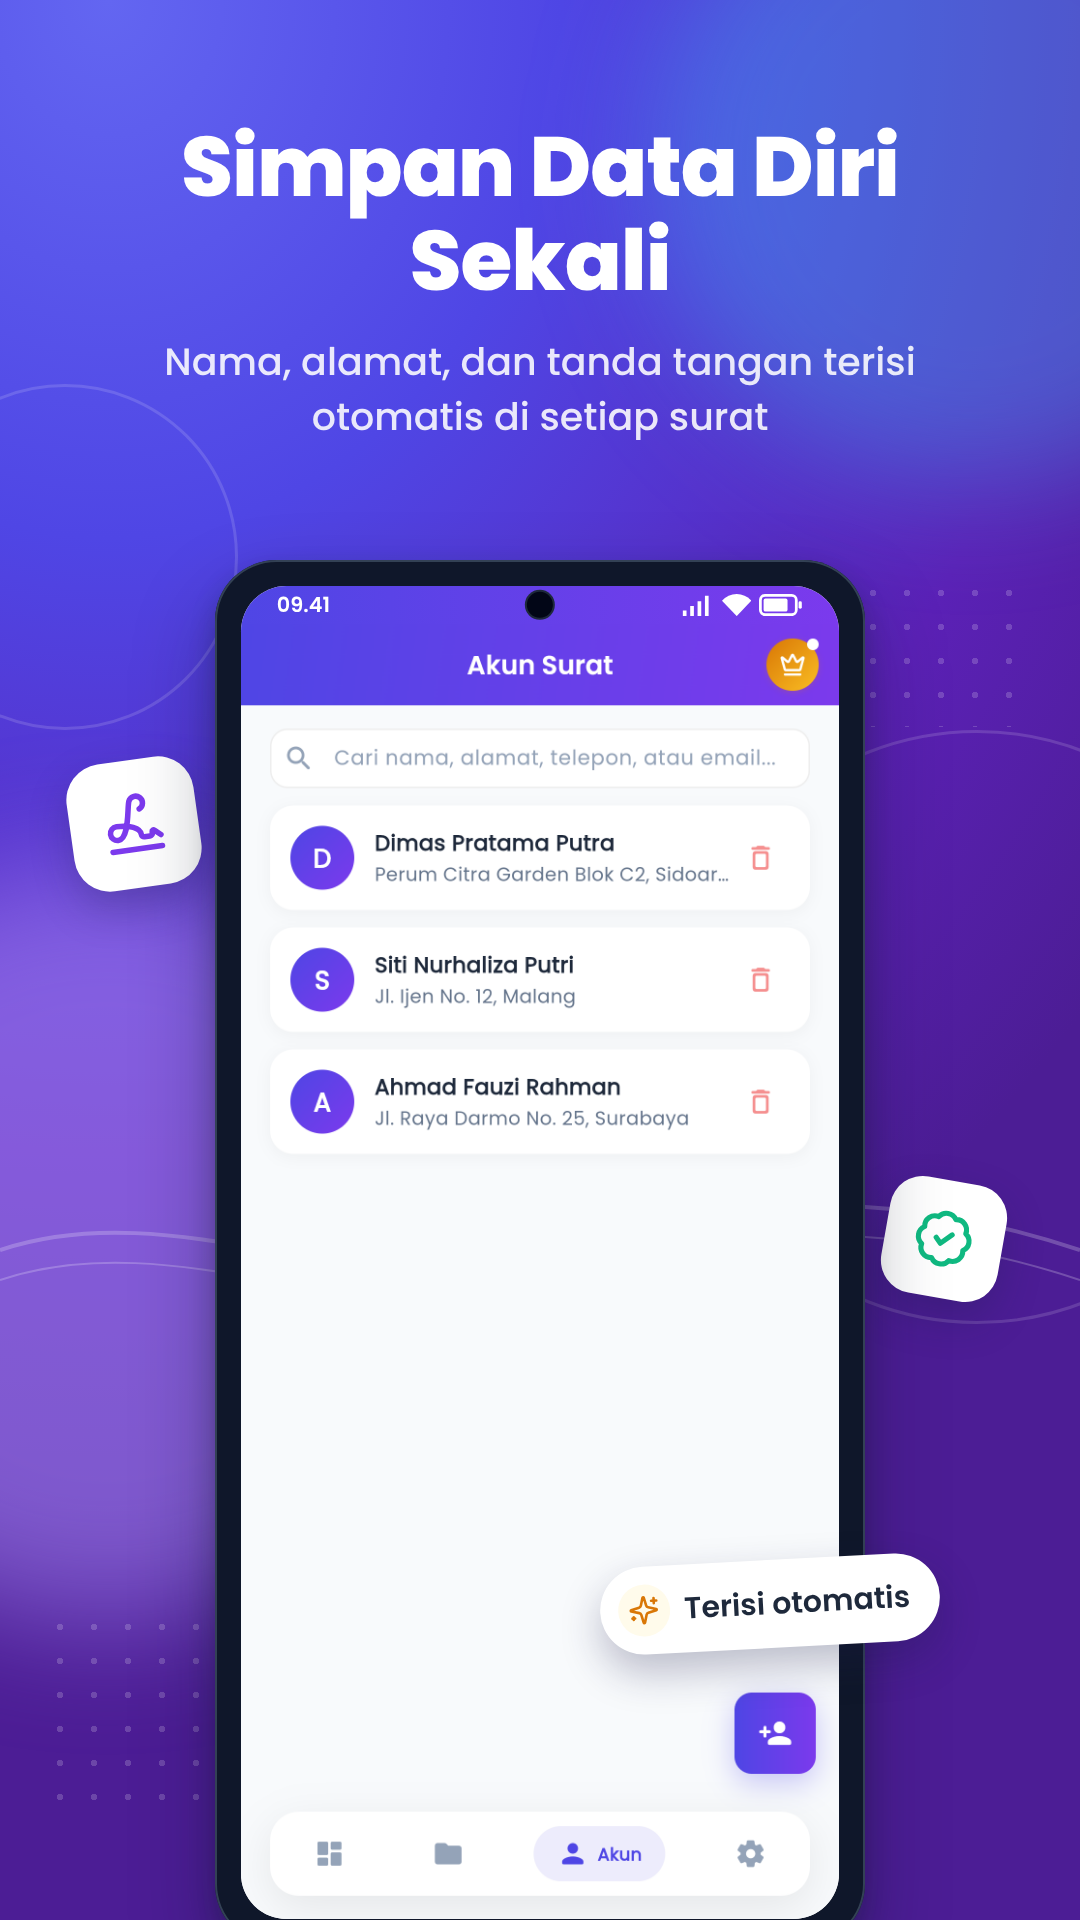
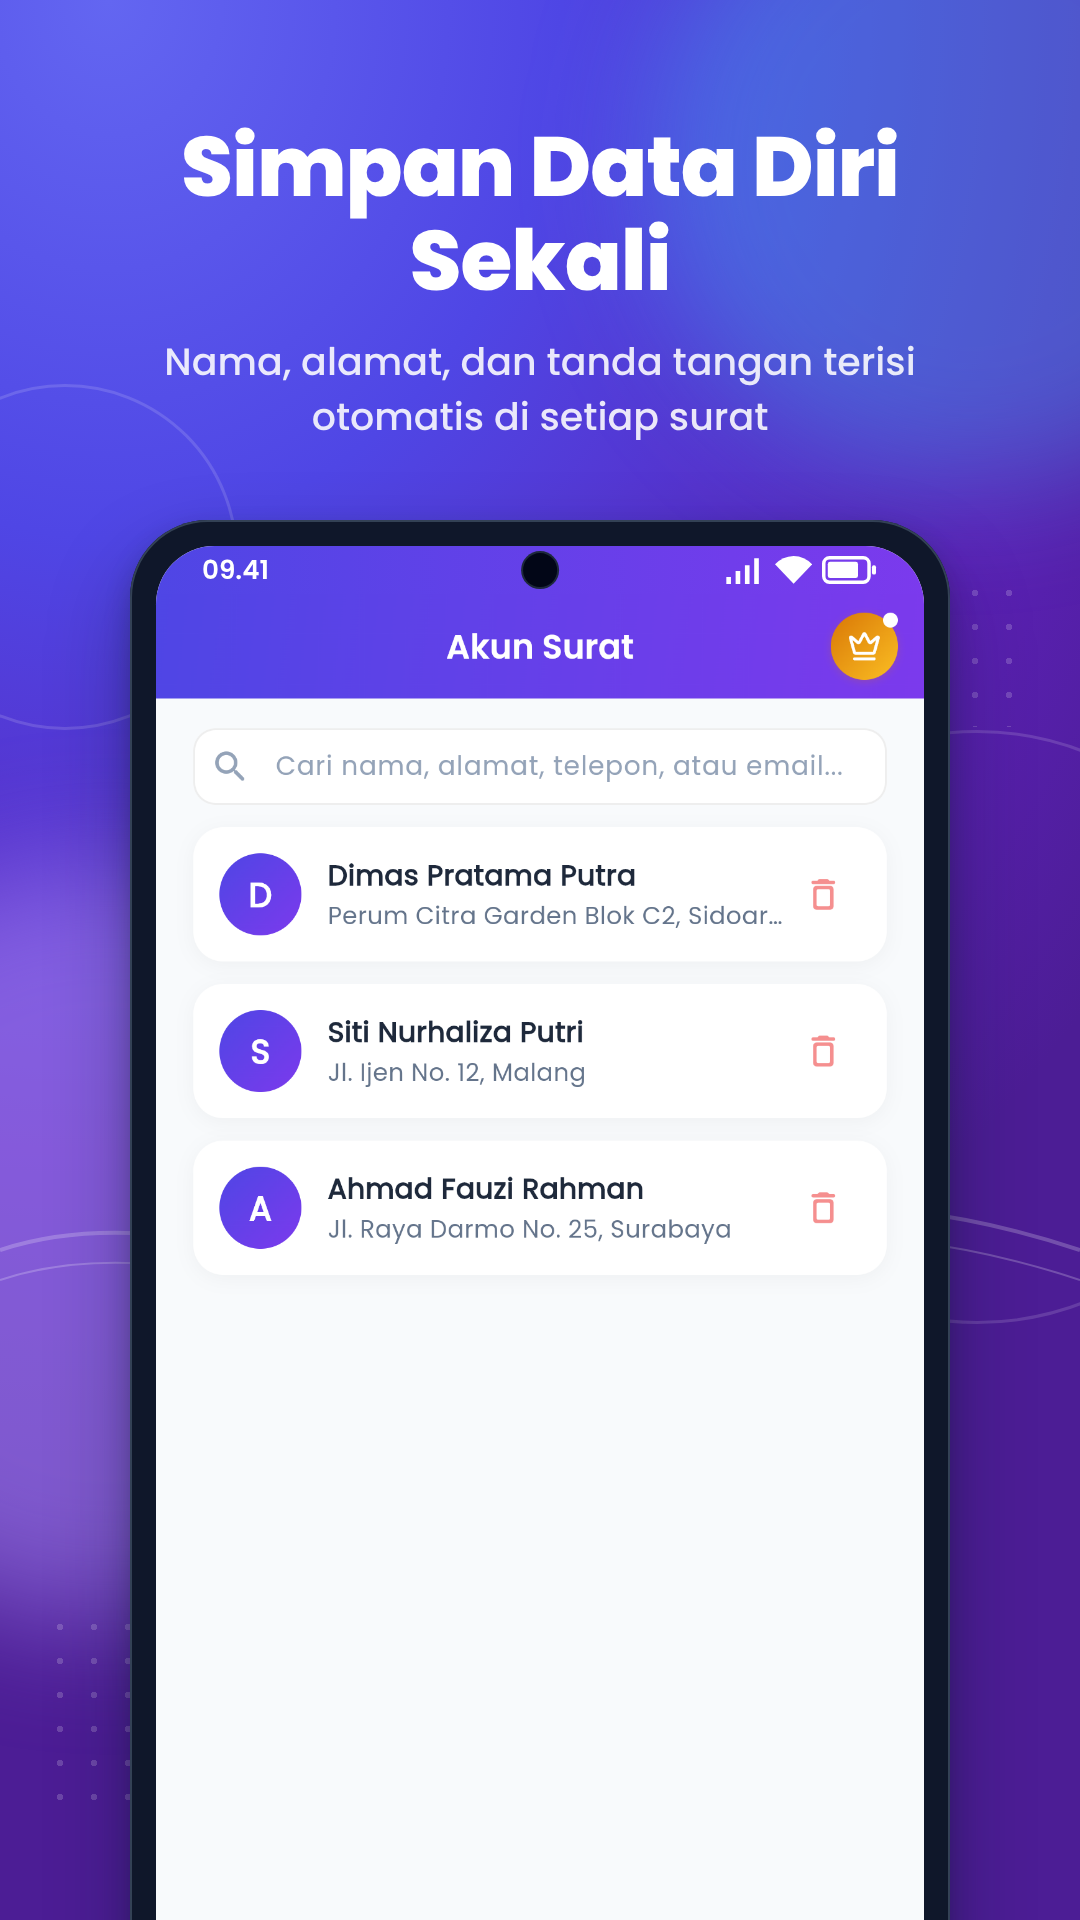
chore: refresh store listing images
Recapture the editor without kop surat, use the template list instead
of the editor in the intro screenshot and file list in the feature
graphic, drop the floating icons and enlarge the phone mockups.

Claude-Session: https://claude.ai/code/session_01GHJVaYviacDUuwnHw28H7c

diff --git a/store/source/generate.js b/store/source/generate.js
@@ -37,9 +37,6 @@ const BASE_CSS = `
                  border-radius: 50%; background: #020617; box-shadow: 0 0 0 2px #1E293B; }
   .status .sys { display: flex; align-items: center; gap: calc(var(--w) * 0.012); }
   .status svg { height: calc(var(--w) * 0.034); width: auto; }
-  .float { position: absolute; display: grid; place-items: center; border-radius: 28%; background: #fff;
-           box-shadow: 0 18px 40px rgba(30, 27, 75, .28); }
-  .float svg { width: 52%; height: 52%; }
   .chip { position: absolute; display: flex; align-items: center; gap: 14px; background: #fff; color: #1E293B;
           border-radius: 999px; padding: 18px 30px 18px 18px; font-weight: 600; font-size: 30px;
           box-shadow: 0 18px 40px rgba(30, 27, 75, .28); white-space: nowrap; }
@@ -53,11 +50,6 @@ const COLORS = {
   amber: ['#D97706', '#FFFBEB'], red: ['#EF4444', '#FEF2F2'],
 };
 
-// Floating rounded tile with a colored lucide icon.
-const float = ({ name, color, x, y, size, rot = 0 }) => {
-  const [fg] = COLORS[color];
-  return `<div class="float" style="left:${x}px;top:${y}px;width:${size}px;height:${size}px;transform:rotate(${rot}deg);color:${fg}">${icon(name)}</div>`;
-};
 const chip = ({ name, color, text, x, y, rot = 0 }) => {
   const [fg, bg] = COLORS[color];
   return `<div class="chip" style="left:${x}px;top:${y}px;transform:rotate(${rot}deg)"><span class="ic" style="background:${bg};color:${fg}">${icon(name)}</span>${text}</div>`;
@@ -121,21 +113,14 @@ const PW = 1080, PH = 1920;
 const hero = () => page(PW, PH, 'bg-dark', `
   ${decor('dark', PW, PH)}
   ${headline({ tone: 'dark', top: 110, size: 76, title: 'Buat Surat Resmi<br>dalam Hitungan Menit', sub: '100+ template surat resmi siap pakai' })}
-  ${phone({ img: 'home', x: 95, y: 640, w: 520, rot: -9, z: 2 })}
-  ${phone({ img: 'editor', x: 470, y: 760, w: 520, rot: 7, z: 3 })}
-  ${float({ name: 'file-text', color: 'indigo', x: 60, y: 520, size: 130, rot: -10 })}
-  ${float({ name: 'pen-line', color: 'orange', x: 900, y: 560, size: 120, rot: 12 })}
-  ${float({ name: 'stamp', color: 'pink', x: 40, y: 1420, size: 116, rot: 8 })}
-  ${float({ name: 'signature', color: 'green', x: 905, y: 1560, size: 124, rot: -8 })}
-  ${float({ name: 'sparkles', color: 'amber', x: 520, y: 600, size: 92, rot: 10 })}
-  <div style="position:absolute;z-index:6">${chip({ name: 'file-check-2', color: 'green', text: 'Simpan sebagai PDF', x: 560, y: 1690, rot: -3 })}</div>
+  ${phone({ img: 'home', x: 60, y: 600, w: 580, rot: -8, z: 2 })}
+  ${phone({ img: 'template-list', x: 445, y: 690, w: 580, rot: 7, z: 3 })}
 `);
 
-const feature = ({ img, tone, title, sub, floats = [], chips = [] }) => page(PW, PH, tone === 'dark' ? 'bg-dark' : 'bg-light', `
+const feature = ({ img, tone, title, sub, chips = [] }) => page(PW, PH, tone === 'dark' ? 'bg-dark' : 'bg-light', `
   ${decor(tone, PW, PH)}
   ${headline({ tone, title, sub })}
-  ${phone({ img, x: 215, y: 560, w: 650, z: 2 })}
-  ${floats.map(float).join('')}
+  ${phone({ img, x: 130, y: 520, w: 820, z: 2 })}
   <div style="position:absolute;z-index:6">${chips.map(chip).join('')}</div>
 `);
 
@@ -144,65 +129,31 @@ const SCREENS = [
   ['02-template-surat', feature({
     img: 'template-list', tone: 'light', title: '100+ Template Surat',
     sub: 'Sekolah, pekerjaan, desa, bisnis, kesehatan, dan lainnya',
-    floats: [
-      { name: 'layout-template', color: 'indigo', x: 70, y: 700, size: 130, rot: -10 },
-      { name: 'file-text', color: 'orange', x: 890, y: 980, size: 120, rot: 10 },
-      { name: 'mail-check', color: 'green', x: 80, y: 1500, size: 116, rot: 8 },
-    ],
   })],
   ['03-akun-surat', feature({
     img: 'akun-surat', tone: 'dark', title: 'Simpan Data Diri Sekali',
     sub: 'Nama, alamat, dan tanda tangan terisi otomatis di setiap surat',
-    floats: [
-      { name: 'signature', color: 'violet', x: 70, y: 760, size: 128, rot: -8 },
-      { name: 'badge-check', color: 'green', x: 885, y: 1180, size: 118, rot: 10 },
-    ],
-    chips: [{ name: 'sparkles', color: 'amber', text: 'Terisi otomatis', x: 600, y: 1560, rot: -3 }],
   })],
   ['04-isi-data-surat', feature({
     img: 'isi-data-surat', tone: 'light', title: 'Isi Data Surat dengan Mudah',
     sub: 'Lengkapi detail surat lewat formulir sederhana',
-    floats: [
-      { name: 'clipboard-pen-line', color: 'blue', x: 75, y: 720, size: 128, rot: -9 },
-      { name: 'pen-line', color: 'orange', x: 885, y: 1040, size: 116, rot: 10 },
-      { name: 'sparkles', color: 'pink', x: 90, y: 1520, size: 104, rot: 6 },
-    ],
   })],
   ['05-edit-surat', feature({
     img: 'editor', tone: 'dark', title: 'Edit Surat Sesukamu',
     sub: 'Ubah isi dan format teks sebelum surat disimpan',
-    floats: [
-      { name: 'pen-line', color: 'orange', x: 70, y: 760, size: 128, rot: -10 },
-      { name: 'file-type-2', color: 'indigo', x: 890, y: 1120, size: 118, rot: 9 },
-    ],
-    chips: [{ name: 'badge-check', color: 'green', text: 'Format rapi otomatis', x: 90, y: 1580, rot: 3 }],
   })],
   ['06-kop-surat', feature({
     img: 'desain-kop', tone: 'light', title: 'Kop Surat Profesional',
     sub: 'Tambahkan logo dan identitas instansi dengan pilihan desain kop',
-    floats: [
-      { name: 'stamp', color: 'pink', x: 70, y: 740, size: 128, rot: -9 },
-      { name: 'layout-template', color: 'indigo', x: 890, y: 1500, size: 116, rot: 10 },
-    ],
-    chips: [{ name: 'crown', color: 'amber', text: 'Fitur Premium', x: 690, y: 690, rot: 4 }],
+    chips: [{ name: 'crown', color: 'amber', text: 'Fitur Premium', x: 700, y: 470, rot: 4 }],
   })],
   ['07-file-saya', feature({
     img: 'file-saya', tone: 'dark', title: 'Simpan & Bagikan PDF',
     sub: 'Semua surat tersimpan rapi di menu File Saya',
-    floats: [
-      { name: 'folder-open', color: 'amber', x: 70, y: 760, size: 128, rot: -9 },
-      { name: 'share-2', color: 'blue', x: 890, y: 1100, size: 116, rot: 10 },
-      { name: 'printer', color: 'violet', x: 80, y: 1500, size: 108, rot: 7 },
-    ],
-    chips: [{ name: 'download', color: 'green', text: 'Download PDF', x: 640, y: 1640, rot: -3 }],
   })],
   ['08-preview-surat', feature({
     img: 'preview-surat', tone: 'light', title: 'Lihat Preview Sebelum Dipakai',
     sub: 'Cek isi template lebih dulu, lalu gunakan dengan satu ketukan',
-    floats: [
-      { name: 'file-check-2', color: 'green', x: 70, y: 760, size: 128, rot: -9 },
-      { name: 'mail-check', color: 'indigo', x: 890, y: 1180, size: 116, rot: 10 },
-    ],
   })],
 ];
 
@@ -223,11 +174,8 @@ const featureGraphic = () => page(1024, 500, 'bg-dark', `
     <div style="font-size:34px;font-weight:700;line-height:1.25;margin-top:30px">Buat surat resmi dalam hitungan menit</div>
     <div style="font-size:18px;font-weight:500;opacity:.85;margin-top:12px">100+ template · Kop surat · Simpan PDF</div>
   </div>
-  ${phone({ img: 'home', x: 600, y: 70, w: 200, rot: -8, z: 2, pad: 6 })}
-  ${phone({ img: 'editor', x: 745, y: 110, w: 200, rot: 7, z: 3, pad: 6 })}
-  <div class="float" style="left:560px;top:330px;width:70px;height:70px;transform:rotate(-10deg);color:#F97316;z-index:4">${icon('pen-line')}</div>
-  <div class="float" style="left:930px;top:40px;width:62px;height:62px;transform:rotate(10deg);color:#10B981;z-index:4">${icon('file-check-2')}</div>
-  <div class="float" style="left:700px;top:22px;width:54px;height:54px;transform:rotate(8deg);color:#EC4899;z-index:4">${icon('stamp')}</div>
+  ${phone({ img: 'home', x: 560, y: 50, w: 230, rot: -8, z: 2, pad: 7 })}
+  ${phone({ img: 'file-saya', x: 740, y: 90, w: 230, rot: 7, z: 3, pad: 7 })}
 `);
 
 (async () => {
